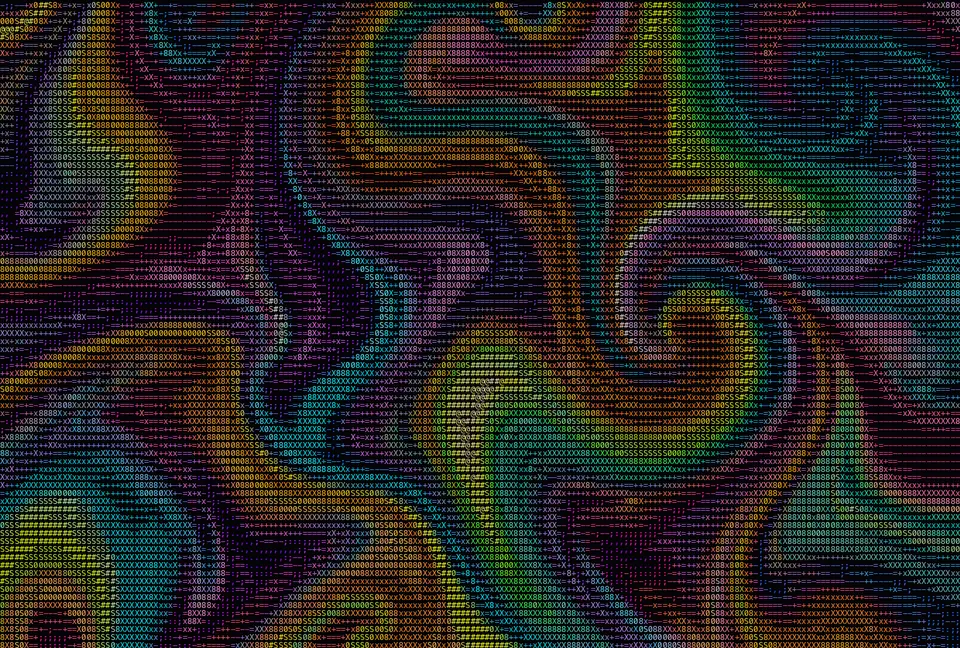
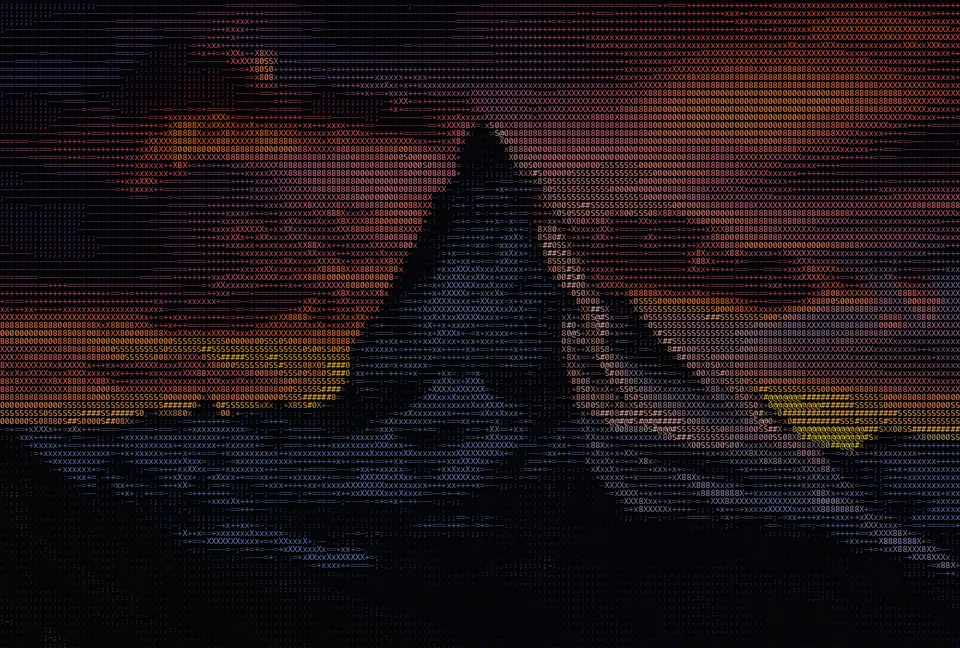
content: recognizable wallpaper image + original usecase copy
- Replace abstract marble (unreadable as ASCII) with a mountain-at-sunset
  render — clearly recognizable and still colorful
- Rewrite all three usecase titles + descriptions in our own words
  (Social & avatars / Wallpapers & lock screens / Posters & prints)

diff --git a/index.html b/index.html
@@ -3773,9 +3773,9 @@ function styleHref(recipe) {
    image; the ticker scrolls horizontally and pauses on hover.
    =============================================================== */
 const USECASES = [
-  { title: 'Websites',    desc: 'Drop ASCII art renders into hero backgrounds, section dividers, loading states and 404 pages. Export as PNG and use it as-is in any framework, the aesthetic stands out instantly from the standard SaaS landing template.', def: 'assets/usecases/websites-a.webp', hover: 'assets/usecases/websites-b.webp' },
-  { title: 'Wallpapers',  desc: 'Free ASCII wallpaper generator for desktop and phone. Drop in any source photo, pick a style, export at up to 4K, print-quality wallpapers in seconds, no upload, no watermark.', def: 'assets/usecases/wallpapers-a.webp', hover: 'assets/usecases/wallpapers-b.webp' },
-  { title: 'Posters',     desc: 'Print-ready ASCII art posters for events, gigs, zines and exhibitions. ASCII output scales cleanly for A2 and A1 print.', def: 'assets/usecases/posters-a.webp', hover: 'assets/usecases/posters-b.webp' },
+  { title: 'Social & avatars', desc: 'Turn a photo into an ASCII portrait for your X, Discord or Reddit profile, or a post that actually stops the scroll. Copy it as plain text or save a crisp PNG.', def: 'assets/usecases/websites-a.webp', hover: 'assets/usecases/websites-b.webp' },
+  { title: 'Wallpapers & lock screens', desc: 'Make a one-of-a-kind desktop or phone wallpaper from any picture. Pick a style, push the detail, and download a high-resolution PNG, no sign-up and no watermark.', def: 'assets/usecases/wallpapers-a.webp', hover: 'assets/usecases/wallpapers-b.webp' },
+  { title: 'Posters & prints', desc: 'Blow an ASCII render up into a poster, sticker or zine page. The high-contrast character grid stays razor-sharp all the way to large-format print.', def: 'assets/usecases/posters-a.webp', hover: 'assets/usecases/posters-b.webp' },
 ];
 (function initUsecases() {
   const track = document.getElementById('usecases-track');